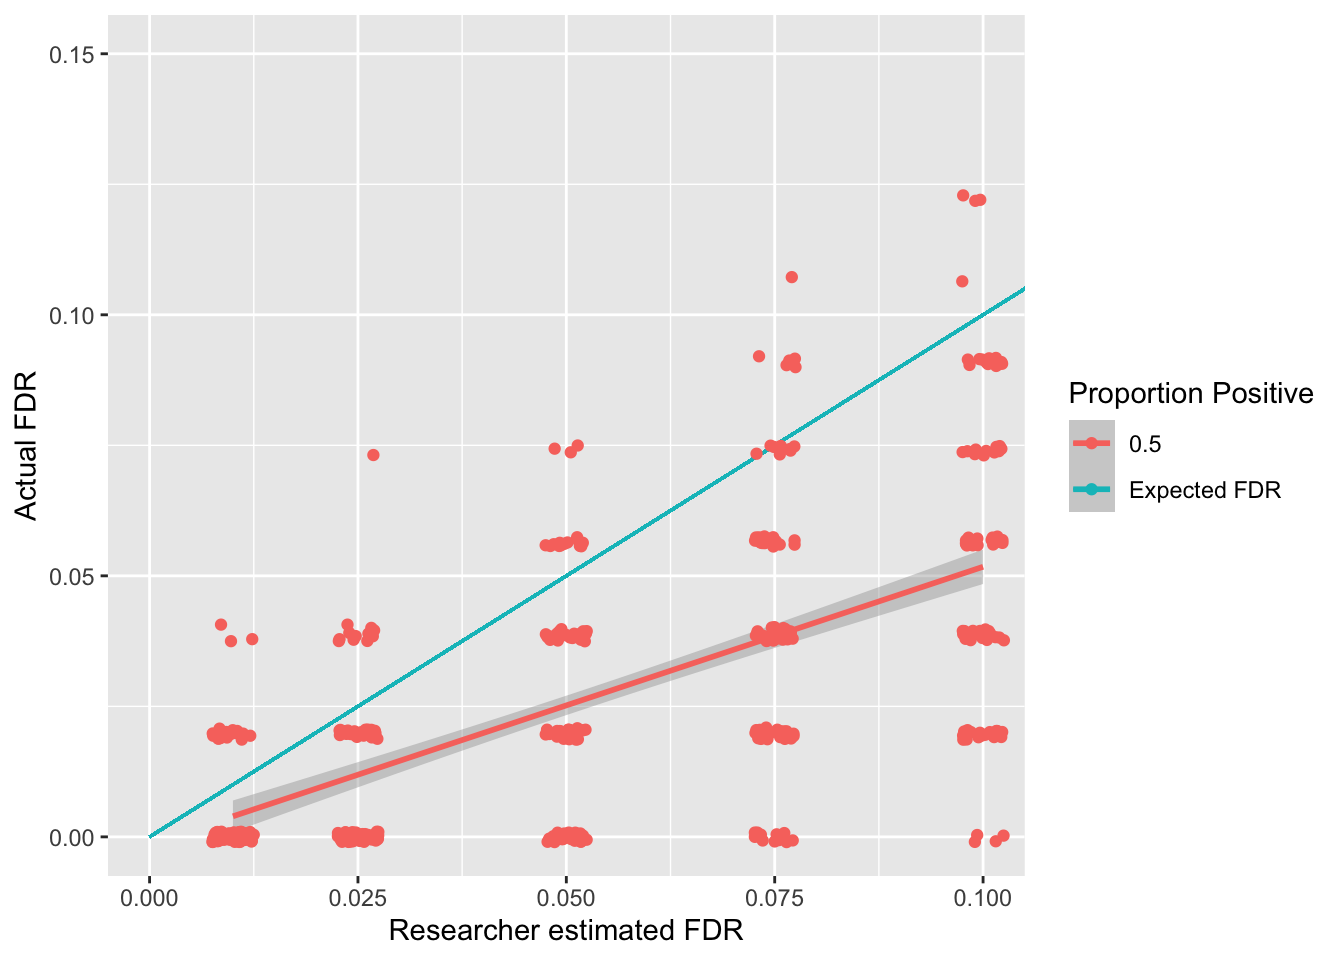
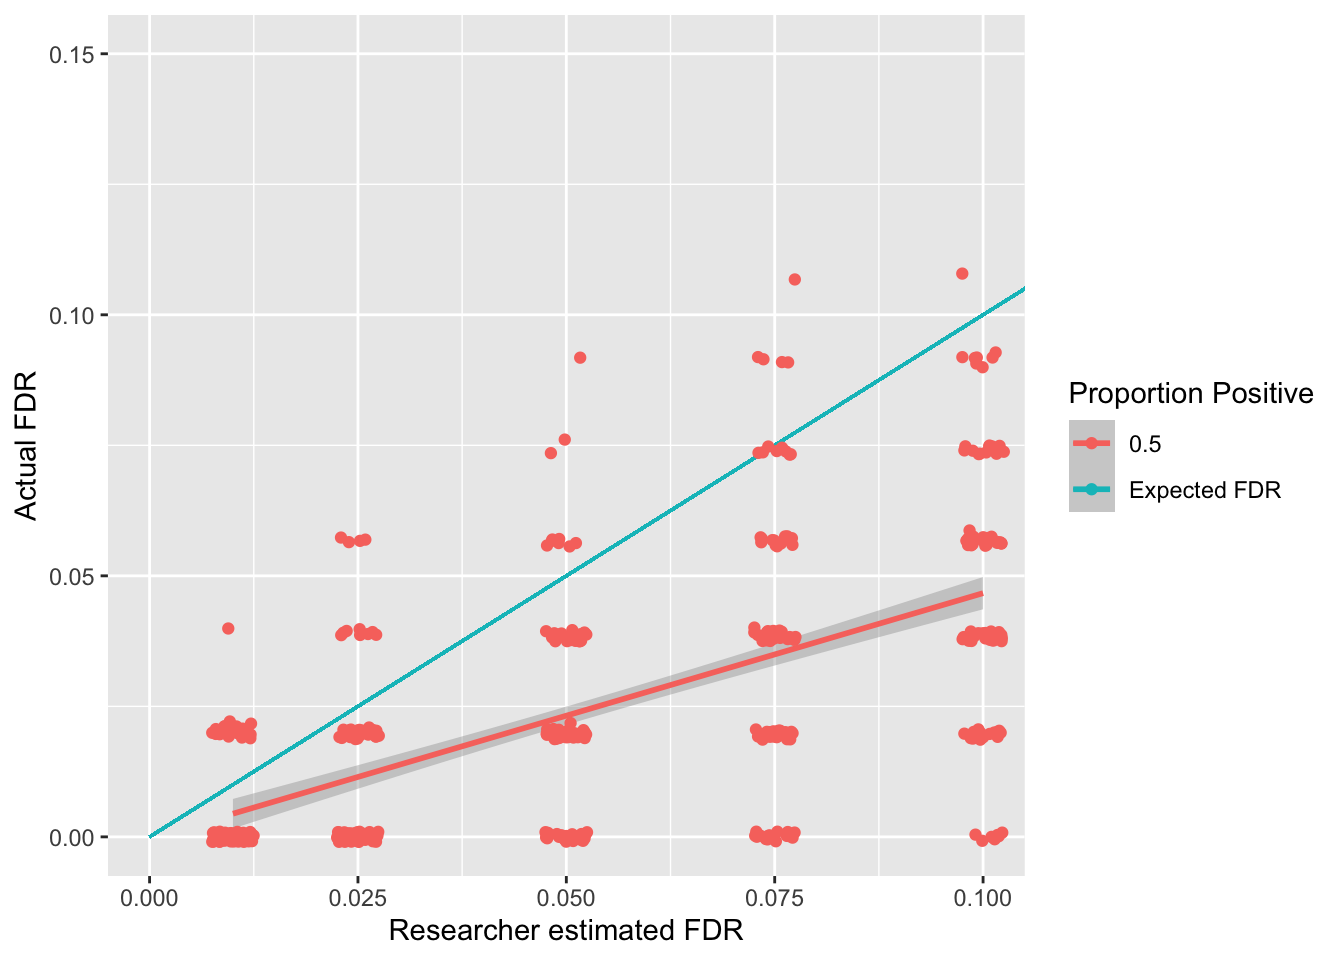
adding more python to fdr.qmd page

diff --git a/docs/multipleTesting/fdr.html b/docs/multipleTesting/fdr.html
@@ -1179,7 +1179,77 @@ Optional: Click here to see the R code to generate the data for the figure below
 </div>
 </div>
 <div id="tabset-2-2" class="tab-pane" role="tabpanel" aria-labelledby="tabset-2-2-tab">
-
+<div class="cell">
+<div class="sourceCode cell-code" id="cb6"><pre class="sourceCode python code-with-copy"><code class="sourceCode python"><span id="cb6-1"><a href="#cb6-1" aria-hidden="true" tabindex="-1"></a><span class="im">import</span> pandas <span class="im">as</span> pd</span>
+<span id="cb6-2"><a href="#cb6-2" aria-hidden="true" tabindex="-1"></a><span class="im">import</span> numpy <span class="im">as</span> np</span>
+<span id="cb6-3"><a href="#cb6-3" aria-hidden="true" tabindex="-1"></a><span class="im">import</span> scipy.stats <span class="im">as</span> stats</span>
+<span id="cb6-4"><a href="#cb6-4" aria-hidden="true" tabindex="-1"></a><span class="im">import</span> random</span>
+<span id="cb6-5"><a href="#cb6-5" aria-hidden="true" tabindex="-1"></a><span class="im">import</span> warnings</span>
+<span id="cb6-6"><a href="#cb6-6" aria-hidden="true" tabindex="-1"></a></span>
+<span id="cb6-7"><a href="#cb6-7" aria-hidden="true" tabindex="-1"></a><span class="co"># Suppress the RuntimeWarning</span></span>
+<span id="cb6-8"><a href="#cb6-8" aria-hidden="true" tabindex="-1"></a>warnings.filterwarnings(<span class="st">"ignore"</span>, category<span class="op">=</span><span class="pp">RuntimeWarning</span>)</span>
+<span id="cb6-9"><a href="#cb6-9" aria-hidden="true" tabindex="-1"></a></span>
+<span id="cb6-10"><a href="#cb6-10" aria-hidden="true" tabindex="-1"></a><span class="co"># Disable the SettingWithCopyWarning</span></span>
+<span id="cb6-11"><a href="#cb6-11" aria-hidden="true" tabindex="-1"></a>pd.options.mode.chained_assignment <span class="op">=</span> <span class="va">None</span> </span>
+<span id="cb6-12"><a href="#cb6-12" aria-hidden="true" tabindex="-1"></a></span>
+<span id="cb6-13"><a href="#cb6-13" aria-hidden="true" tabindex="-1"></a><span class="co"># Simulate the data</span></span>
+<span id="cb6-14"><a href="#cb6-14" aria-hidden="true" tabindex="-1"></a><span class="cf">for</span> i <span class="kw">in</span> <span class="bu">range</span>(<span class="dv">0</span>,<span class="bu">len</span>(fdr_sim_df[<span class="st">'q'</span>])):</span>
+<span id="cb6-15"><a href="#cb6-15" aria-hidden="true" tabindex="-1"></a>    </span>
+<span id="cb6-16"><a href="#cb6-16" aria-hidden="true" tabindex="-1"></a>    <span class="co"># prepare a data frame to compare positive and negatives within a sample compared to the population</span></span>
+<span id="cb6-17"><a href="#cb6-17" aria-hidden="true" tabindex="-1"></a>    this_subset <span class="op">=</span> pd.DataFrame({</span>
+<span id="cb6-18"><a href="#cb6-18" aria-hidden="true" tabindex="-1"></a>        <span class="st">'population'</span>: [<span class="st">''</span>] <span class="op">*</span> n_tests,</span>
+<span id="cb6-19"><a href="#cb6-19" aria-hidden="true" tabindex="-1"></a>        <span class="st">'sample'</span>: <span class="st">''</span>,</span>
+<span id="cb6-20"><a href="#cb6-20" aria-hidden="true" tabindex="-1"></a>        <span class="st">'true_false'</span>: <span class="va">False</span>,</span>
+<span id="cb6-21"><a href="#cb6-21" aria-hidden="true" tabindex="-1"></a>        <span class="st">'p.value'</span>: np.nan</span>
+<span id="cb6-22"><a href="#cb6-22" aria-hidden="true" tabindex="-1"></a>    })</span>
+<span id="cb6-23"><a href="#cb6-23" aria-hidden="true" tabindex="-1"></a>    </span>
+<span id="cb6-24"><a href="#cb6-24" aria-hidden="true" tabindex="-1"></a>    this_pos_prop <span class="op">=</span> fdr_sim_df[<span class="st">'positive_prop'</span>][i]</span>
+<span id="cb6-25"><a href="#cb6-25" aria-hidden="true" tabindex="-1"></a>    <span class="cf">for</span> k <span class="kw">in</span> <span class="bu">range</span>(<span class="dv">1</span>,n_tests<span class="op">+</span><span class="dv">1</span>):</span>
+<span id="cb6-26"><a href="#cb6-26" aria-hidden="true" tabindex="-1"></a>        <span class="cf">if</span> k <span class="op">/</span> tests_per_sim <span class="op">&lt;=</span> this_pos_prop:</span>
+<span id="cb6-27"><a href="#cb6-27" aria-hidden="true" tabindex="-1"></a>            <span class="co"># if the population is positive</span></span>
+<span id="cb6-28"><a href="#cb6-28" aria-hidden="true" tabindex="-1"></a>            this_subset[<span class="st">'population'</span>][k<span class="op">-</span><span class="dv">1</span>] <span class="op">=</span> <span class="st">"positive"</span></span>
+<span id="cb6-29"><a href="#cb6-29" aria-hidden="true" tabindex="-1"></a>            data <span class="op">=</span> np.random.normal(this_effect_size, <span class="dv">1</span>, this_pp)</span>
+<span id="cb6-30"><a href="#cb6-30" aria-hidden="true" tabindex="-1"></a>            t_test_result <span class="op">=</span> stats.ttest_1samp(data, <span class="dv">0</span>)</span>
+<span id="cb6-31"><a href="#cb6-31" aria-hidden="true" tabindex="-1"></a>            this_subset[<span class="st">'p.value'</span>][k<span class="op">-</span><span class="dv">1</span>] <span class="op">=</span> t_test_result.pvalue</span>
+<span id="cb6-32"><a href="#cb6-32" aria-hidden="true" tabindex="-1"></a>        </span>
+<span id="cb6-33"><a href="#cb6-33" aria-hidden="true" tabindex="-1"></a>        <span class="cf">if</span> k <span class="op">/</span> tests_per_sim <span class="op">&gt;</span> this_pos_prop:</span>
+<span id="cb6-34"><a href="#cb6-34" aria-hidden="true" tabindex="-1"></a>            <span class="co"># if the population is negative</span></span>
+<span id="cb6-35"><a href="#cb6-35" aria-hidden="true" tabindex="-1"></a>            this_subset[<span class="st">'population'</span>][k<span class="op">-</span><span class="dv">1</span>] <span class="op">=</span> <span class="st">"negative"</span></span>
+<span id="cb6-36"><a href="#cb6-36" aria-hidden="true" tabindex="-1"></a>            this_subset[<span class="st">'p.value'</span>][k<span class="op">-</span><span class="dv">1</span>] <span class="op">=</span> random.uniform(<span class="dv">0</span>, <span class="dv">1</span>)</span>
+<span id="cb6-37"><a href="#cb6-37" aria-hidden="true" tabindex="-1"></a>    </span>
+<span id="cb6-38"><a href="#cb6-38" aria-hidden="true" tabindex="-1"></a>    <span class="co"># sort the subset into appropriate ranks</span></span>
+<span id="cb6-39"><a href="#cb6-39" aria-hidden="true" tabindex="-1"></a>    sorted_subset <span class="op">=</span> this_subset.sort_values(by<span class="op">=</span><span class="st">'p.value'</span>)</span>
+<span id="cb6-40"><a href="#cb6-40" aria-hidden="true" tabindex="-1"></a>    sorted_subset[<span class="st">'rank'</span>] <span class="op">=</span> sorted_subset[<span class="st">'p.value'</span>].rank()</span>
+<span id="cb6-41"><a href="#cb6-41" aria-hidden="true" tabindex="-1"></a>    sorted_subset[<span class="st">'alpha'</span>] <span class="op">=</span> (sorted_subset[<span class="st">'rank'</span>] <span class="op">/</span> tests_per_sim) <span class="op">*</span> fdr_sim_df[<span class="st">'q'</span>][i]</span>
+<span id="cb6-42"><a href="#cb6-42" aria-hidden="true" tabindex="-1"></a>    sorted_subset[<span class="st">'sig'</span>] <span class="op">=</span> sorted_subset[<span class="st">'p.value'</span>] <span class="op">&lt;</span> sorted_subset[<span class="st">'alpha'</span>]</span>
+<span id="cb6-43"><a href="#cb6-43" aria-hidden="true" tabindex="-1"></a>    max_sig <span class="op">=</span> sorted_subset.loc[sorted_subset[<span class="st">'sig'</span>], <span class="st">'rank'</span>].<span class="bu">max</span>()</span>
+<span id="cb6-44"><a href="#cb6-44" aria-hidden="true" tabindex="-1"></a>    sorted_subset[<span class="st">'sample'</span>] <span class="op">=</span> <span class="st">"negative"</span></span>
+<span id="cb6-45"><a href="#cb6-45" aria-hidden="true" tabindex="-1"></a>    sorted_subset[<span class="st">'hb_sample'</span>] <span class="op">=</span> <span class="st">"negative"</span></span>
+<span id="cb6-46"><a href="#cb6-46" aria-hidden="true" tabindex="-1"></a>    fdr_sim_df.at[i, <span class="st">'bh_max_alpha'</span>] <span class="op">=</span> sorted_subset.at[max_sig, <span class="st">'alpha'</span>]</span>
+<span id="cb6-47"><a href="#cb6-47" aria-hidden="true" tabindex="-1"></a>    </span>
+<span id="cb6-48"><a href="#cb6-48" aria-hidden="true" tabindex="-1"></a>    <span class="cf">if</span> max_sig <span class="op">&gt;=</span> <span class="dv">0</span>:</span>
+<span id="cb6-49"><a href="#cb6-49" aria-hidden="true" tabindex="-1"></a>        sorted_subset.loc[<span class="dv">0</span>:max_sig <span class="op">-</span> <span class="dv">1</span>, <span class="st">'sample'</span>] <span class="op">=</span> <span class="st">"positive"</span></span>
+<span id="cb6-50"><a href="#cb6-50" aria-hidden="true" tabindex="-1"></a>        false_positives <span class="op">=</span> (</span>
+<span id="cb6-51"><a href="#cb6-51" aria-hidden="true" tabindex="-1"></a>            (sorted_subset[<span class="st">'population'</span>] <span class="op">==</span> <span class="st">"negative"</span>) <span class="op">&amp;</span> (sorted_subset[<span class="st">'sample'</span>] <span class="op">==</span> <span class="st">"positive"</span>)</span>
+<span id="cb6-52"><a href="#cb6-52" aria-hidden="true" tabindex="-1"></a>        ).<span class="bu">sum</span>()</span>
+<span id="cb6-53"><a href="#cb6-53" aria-hidden="true" tabindex="-1"></a>        true_positives <span class="op">=</span> (</span>
+<span id="cb6-54"><a href="#cb6-54" aria-hidden="true" tabindex="-1"></a>            (sorted_subset[<span class="st">'population'</span>] <span class="op">==</span> <span class="st">"positive"</span>) <span class="op">&amp;</span> (sorted_subset[<span class="st">'sample'</span>] <span class="op">==</span> <span class="st">"positive"</span>)</span>
+<span id="cb6-55"><a href="#cb6-55" aria-hidden="true" tabindex="-1"></a>        ).<span class="bu">sum</span>()</span>
+<span id="cb6-56"><a href="#cb6-56" aria-hidden="true" tabindex="-1"></a>        fdr_sim_df.at[i, <span class="st">'fdr'</span>] <span class="op">=</span> false_positives <span class="op">/</span> (false_positives <span class="op">+</span> true_positives)</span>
+<span id="cb6-57"><a href="#cb6-57" aria-hidden="true" tabindex="-1"></a>    <span class="cf">else</span>:</span>
+<span id="cb6-58"><a href="#cb6-58" aria-hidden="true" tabindex="-1"></a>        fdr_sim_df.at[i, <span class="st">'fdr'</span>] <span class="op">=</span> <span class="va">None</span></span>
+<span id="cb6-59"><a href="#cb6-59" aria-hidden="true" tabindex="-1"></a>        fdr_sim_df.at[i, <span class="st">'fwer'</span>] <span class="op">=</span> <span class="va">None</span></span>
+<span id="cb6-60"><a href="#cb6-60" aria-hidden="true" tabindex="-1"></a>    </span>
+<span id="cb6-61"><a href="#cb6-61" aria-hidden="true" tabindex="-1"></a>    <span class="co"># Quality check</span></span>
+<span id="cb6-62"><a href="#cb6-62" aria-hidden="true" tabindex="-1"></a>    fdr_sim_df.at[i, <span class="st">'pop_pos'</span>] <span class="op">=</span> (sorted_subset[<span class="st">'population'</span>] <span class="op">==</span> <span class="st">"positive"</span>).<span class="bu">sum</span>()</span>
+<span id="cb6-63"><a href="#cb6-63" aria-hidden="true" tabindex="-1"></a>    fdr_sim_df.at[i, <span class="st">'pop_neg'</span>] <span class="op">=</span> (sorted_subset[<span class="st">'population'</span>] <span class="op">==</span> <span class="st">"negative"</span>).<span class="bu">sum</span>()</span>
+<span id="cb6-64"><a href="#cb6-64" aria-hidden="true" tabindex="-1"></a>    fdr_sim_df.at[i, <span class="st">'samp_pos'</span>] <span class="op">=</span> (sorted_subset[<span class="st">'sample'</span>] <span class="op">==</span> <span class="st">"positive"</span>).<span class="bu">sum</span>()</span>
+<span id="cb6-65"><a href="#cb6-65" aria-hidden="true" tabindex="-1"></a>    fdr_sim_df.at[i, <span class="st">'samp_neg'</span>] <span class="op">=</span> (sorted_subset[<span class="st">'sample'</span>] <span class="op">==</span> <span class="st">"negative"</span>).<span class="bu">sum</span>()</span>
+<span id="cb6-66"><a href="#cb6-66" aria-hidden="true" tabindex="-1"></a>    fdr_sim_df.at[i, <span class="st">'false_pos'</span>] <span class="op">=</span> ((sorted_subset[<span class="st">'sample'</span>] <span class="op">==</span> <span class="st">"positive"</span>) <span class="op">&amp;</span> (sorted_subset[<span class="st">'population'</span>] <span class="op">==</span> <span class="st">"negative"</span>)).<span class="bu">sum</span>()</span>
+<span id="cb6-67"><a href="#cb6-67" aria-hidden="true" tabindex="-1"></a>    fdr_sim_df.at[i, <span class="st">'false_neg'</span>] <span class="op">=</span> ((sorted_subset[<span class="st">'sample'</span>] <span class="op">==</span> <span class="st">"negative"</span>) <span class="op">&amp;</span> (sorted_subset[<span class="st">'population'</span>] <span class="op">==</span> <span class="st">"positive"</span>)).<span class="bu">sum</span>()</span>
+<span id="cb6-68"><a href="#cb6-68" aria-hidden="true" tabindex="-1"></a>    fdr_sim_df.at[i, <span class="st">'true_pos'</span>] <span class="op">=</span> ((sorted_subset[<span class="st">'sample'</span>] <span class="op">==</span> <span class="st">"positive"</span>) <span class="op">&amp;</span> (sorted_subset[<span class="st">'population'</span>] <span class="op">==</span> <span class="st">"positive"</span>)).<span class="bu">sum</span>()</span>
+<span id="cb6-69"><a href="#cb6-69" aria-hidden="true" tabindex="-1"></a>    fdr_sim_df.at[i, <span class="st">'true_neg'</span>] <span class="op">=</span> ((sorted_subset[<span class="st">'sample'</span>] <span class="op">==</span> <span class="st">"negative"</span>) <span class="op">&amp;</span> (sorted_subset[<span class="st">'population'</span>] <span class="op">==</span> <span class="st">"negative"</span>)).<span class="bu">sum</span>()    </span></code><button title="Copy to Clipboard" class="code-copy-button"><i class="bi"></i></button></pre></div>
+</div>
 </div>
 </div>
 </div>
@@ -1191,18 +1261,18 @@ Optional: Click here to see the R code to generate the data for the figure below
 <div class="tab-content">
 <div id="tabset-3-1" class="tab-pane active" role="tabpanel" aria-labelledby="tabset-3-1-tab">
 <div class="cell">
-<div class="sourceCode cell-code" id="cb6"><pre class="sourceCode r code-with-copy"><code class="sourceCode r"><span id="cb6-1"><a href="#cb6-1" aria-hidden="true" tabindex="-1"></a><span class="co"># Maximise the code above to generate the required data</span></span>
-<span id="cb6-2"><a href="#cb6-2" aria-hidden="true" tabindex="-1"></a><span class="fu">ggplot</span>(fdr_sim_df, <span class="fu">aes</span>(<span class="at">x =</span> q, <span class="at">y =</span> fdr,<span class="at">color=</span><span class="fu">as.factor</span>(positive_prop))) <span class="sc">+</span> </span>
-<span id="cb6-3"><a href="#cb6-3" aria-hidden="true" tabindex="-1"></a>  <span class="fu">geom_smooth</span>(<span class="at">method =</span> <span class="st">"lm"</span>, <span class="at">formula =</span> <span class="st">"y ~ x"</span>) <span class="sc">+</span></span>
-<span id="cb6-4"><a href="#cb6-4" aria-hidden="true" tabindex="-1"></a>  <span class="fu">xlab</span>(<span class="st">"Researcher estimated FDR"</span>) <span class="sc">+</span></span>
-<span id="cb6-5"><a href="#cb6-5" aria-hidden="true" tabindex="-1"></a>  <span class="fu">ylab</span>(<span class="st">"Actual FDR"</span>) <span class="sc">+</span> </span>
-<span id="cb6-6"><a href="#cb6-6" aria-hidden="true" tabindex="-1"></a>  <span class="fu">geom_segment</span>(<span class="fu">aes</span>(<span class="at">x =</span> <span class="dv">0</span>, <span class="at">y =</span> <span class="dv">0</span>, <span class="at">xend =</span> <span class="dv">1</span>, <span class="at">yend =</span> <span class="dv">1</span>, <span class="at">color=</span><span class="st">"Expected FDR"</span>)) <span class="sc">+</span></span>
-<span id="cb6-7"><a href="#cb6-7" aria-hidden="true" tabindex="-1"></a>  <span class="fu">geom_jitter</span>(<span class="at">width =</span> .<span class="dv">0025</span>, <span class="at">height =</span> <span class="fl">0.001</span>) <span class="sc">+</span></span>
-<span id="cb6-8"><a href="#cb6-8" aria-hidden="true" tabindex="-1"></a>  <span class="fu">coord_cartesian</span>(</span>
-<span id="cb6-9"><a href="#cb6-9" aria-hidden="true" tabindex="-1"></a>    <span class="at">xlim =</span> (<span class="fu">c</span>(<span class="dv">0</span>,.<span class="dv">1</span>)),</span>
-<span id="cb6-10"><a href="#cb6-10" aria-hidden="true" tabindex="-1"></a>    <span class="at">ylim =</span> (<span class="fu">c</span>(<span class="dv">0</span>,.<span class="dv">15</span>))</span>
-<span id="cb6-11"><a href="#cb6-11" aria-hidden="true" tabindex="-1"></a>  ) <span class="sc">+</span></span>
-<span id="cb6-12"><a href="#cb6-12" aria-hidden="true" tabindex="-1"></a>  <span class="fu">labs</span>(<span class="at">color=</span><span class="st">"Proportion Positive"</span>)</span></code><button title="Copy to Clipboard" class="code-copy-button"><i class="bi"></i></button></pre></div>
+<div class="sourceCode cell-code" id="cb7"><pre class="sourceCode r code-with-copy"><code class="sourceCode r"><span id="cb7-1"><a href="#cb7-1" aria-hidden="true" tabindex="-1"></a><span class="co"># Maximise the code above to generate the required data</span></span>
+<span id="cb7-2"><a href="#cb7-2" aria-hidden="true" tabindex="-1"></a><span class="fu">ggplot</span>(fdr_sim_df, <span class="fu">aes</span>(<span class="at">x =</span> q, <span class="at">y =</span> fdr,<span class="at">color=</span><span class="fu">as.factor</span>(positive_prop))) <span class="sc">+</span> </span>
+<span id="cb7-3"><a href="#cb7-3" aria-hidden="true" tabindex="-1"></a>  <span class="fu">geom_smooth</span>(<span class="at">method =</span> <span class="st">"lm"</span>, <span class="at">formula =</span> <span class="st">"y ~ x"</span>) <span class="sc">+</span></span>
+<span id="cb7-4"><a href="#cb7-4" aria-hidden="true" tabindex="-1"></a>  <span class="fu">xlab</span>(<span class="st">"Researcher estimated FDR"</span>) <span class="sc">+</span></span>
+<span id="cb7-5"><a href="#cb7-5" aria-hidden="true" tabindex="-1"></a>  <span class="fu">ylab</span>(<span class="st">"Actual FDR"</span>) <span class="sc">+</span> </span>
+<span id="cb7-6"><a href="#cb7-6" aria-hidden="true" tabindex="-1"></a>  <span class="fu">geom_segment</span>(<span class="fu">aes</span>(<span class="at">x =</span> <span class="dv">0</span>, <span class="at">y =</span> <span class="dv">0</span>, <span class="at">xend =</span> <span class="dv">1</span>, <span class="at">yend =</span> <span class="dv">1</span>, <span class="at">color=</span><span class="st">"Expected FDR"</span>)) <span class="sc">+</span></span>
+<span id="cb7-7"><a href="#cb7-7" aria-hidden="true" tabindex="-1"></a>  <span class="fu">geom_jitter</span>(<span class="at">width =</span> .<span class="dv">0025</span>, <span class="at">height =</span> <span class="fl">0.001</span>) <span class="sc">+</span></span>
+<span id="cb7-8"><a href="#cb7-8" aria-hidden="true" tabindex="-1"></a>  <span class="fu">coord_cartesian</span>(</span>
+<span id="cb7-9"><a href="#cb7-9" aria-hidden="true" tabindex="-1"></a>    <span class="at">xlim =</span> (<span class="fu">c</span>(<span class="dv">0</span>,.<span class="dv">1</span>)),</span>
+<span id="cb7-10"><a href="#cb7-10" aria-hidden="true" tabindex="-1"></a>    <span class="at">ylim =</span> (<span class="fu">c</span>(<span class="dv">0</span>,.<span class="dv">15</span>))</span>
+<span id="cb7-11"><a href="#cb7-11" aria-hidden="true" tabindex="-1"></a>  ) <span class="sc">+</span></span>
+<span id="cb7-12"><a href="#cb7-12" aria-hidden="true" tabindex="-1"></a>  <span class="fu">labs</span>(<span class="at">color=</span><span class="st">"Proportion Positive"</span>)</span></code><button title="Copy to Clipboard" class="code-copy-button"><i class="bi"></i></button></pre></div>
 <div class="cell-output-display">
 <div id="fig-fdrbh." class="quarto-figure quarto-figure-center anchored">
 <figure class="figure">
@@ -1214,7 +1284,26 @@ Optional: Click here to see the R code to generate the data for the figure below
 </div>
 </div>
 <div id="tabset-3-2" class="tab-pane" role="tabpanel" aria-labelledby="tabset-3-2-tab">
-
+<div class="cell">
+<div class="sourceCode cell-code" id="cb8"><pre class="sourceCode python code-with-copy"><code class="sourceCode python"><span id="cb8-1"><a href="#cb8-1" aria-hidden="true" tabindex="-1"></a><span class="im">from</span> plotnine <span class="im">import</span> ggplot, aes, geom_smooth, geom_jitter, coord_cartesian, labs, geom_segment</span>
+<span id="cb8-2"><a href="#cb8-2" aria-hidden="true" tabindex="-1"></a></span>
+<span id="cb8-3"><a href="#cb8-3" aria-hidden="true" tabindex="-1"></a><span class="co"># Create the plot</span></span>
+<span id="cb8-4"><a href="#cb8-4" aria-hidden="true" tabindex="-1"></a>gg <span class="op">=</span> ggplot(fdr_sim_df, aes(x<span class="op">=</span><span class="st">'q'</span>, y<span class="op">=</span><span class="st">'fdr'</span>, color<span class="op">=</span><span class="st">'factor(positive_prop)'</span>)) <span class="op">+</span> <span class="op">\</span></span>
+<span id="cb8-5"><a href="#cb8-5" aria-hidden="true" tabindex="-1"></a>    geom_smooth(method<span class="op">=</span><span class="st">'lm'</span>, formula<span class="op">=</span><span class="st">'y ~ x'</span>) <span class="op">+</span> <span class="op">\</span></span>
+<span id="cb8-6"><a href="#cb8-6" aria-hidden="true" tabindex="-1"></a>    geom_jitter(width<span class="op">=</span><span class="fl">0.0025</span>, height<span class="op">=</span><span class="fl">0.001</span>) <span class="op">+</span> <span class="op">\</span></span>
+<span id="cb8-7"><a href="#cb8-7" aria-hidden="true" tabindex="-1"></a>    coord_cartesian(xlim<span class="op">=</span>(<span class="dv">0</span>, <span class="fl">0.1</span>), ylim<span class="op">=</span>(<span class="dv">0</span>, <span class="fl">0.15</span>)) <span class="op">+</span> <span class="op">\</span></span>
+<span id="cb8-8"><a href="#cb8-8" aria-hidden="true" tabindex="-1"></a>    labs(x<span class="op">=</span><span class="st">'Researcher estimated FDR'</span>, y<span class="op">=</span><span class="st">'Actual FDR'</span>, color<span class="op">=</span><span class="st">'Proportion Positive'</span>) <span class="op">+</span> <span class="op">\</span></span>
+<span id="cb8-9"><a href="#cb8-9" aria-hidden="true" tabindex="-1"></a>    geom_segment(x<span class="op">=</span><span class="dv">0</span>, y<span class="op">=</span><span class="dv">0</span>, xend<span class="op">=</span><span class="dv">1</span>, yend<span class="op">=</span><span class="dv">1</span>, color<span class="op">=</span><span class="st">"blue"</span>)</span>
+<span id="cb8-10"><a href="#cb8-10" aria-hidden="true" tabindex="-1"></a></span>
+<span id="cb8-11"><a href="#cb8-11" aria-hidden="true" tabindex="-1"></a><span class="co"># Print the plot</span></span>
+<span id="cb8-12"><a href="#cb8-12" aria-hidden="true" tabindex="-1"></a><span class="bu">print</span>(gg)</span></code><button title="Copy to Clipboard" class="code-copy-button"><i class="bi"></i></button></pre></div>
+</div>
+<div class="quarto-figure quarto-figure-left">
+<figure class="figure">
+<p><img src="fdr_Figure1.png" class="img-fluid figure-img" width="650"></p>
+<figcaption class="figure-caption">Figure 1: A simulation of FDR when using Benjamini-Hochberg procedure. The “Researcher estimated FDR” is the q-value that the researcher chooses.</figcaption>
+</figure>
+</div>
 </div>
 </div>
 </div>
